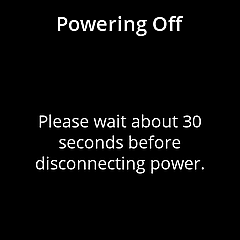
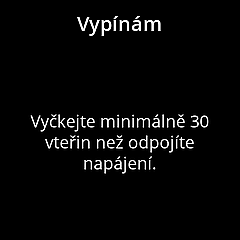
Fixed Donate screen; fr, es, jp, cs updates.

Changed region(s): [[0.1167, 0.4667, 0.875, 0.7292], [0.2333, 0.0583, 0.7583, 0.175]]

diff --git a/ja/README.md b/ja/README.md
@@ -1,5 +1,5 @@
 # SeedSigner Screenshots: Japanese
-Translation progress: 97.5%
+Translation progress: 100.0%
 
 ---
 

diff --git a/es/README.md b/es/README.md
@@ -1,5 +1,5 @@
 # SeedSigner Screenshots: Spanish
-Translation progress: 98.3%
+Translation progress: 100.0%
 
 ---
 

diff --git a/fr/README.md b/fr/README.md
@@ -1,5 +1,5 @@
 # SeedSigner Screenshots: French
-Translation progress: 98.3%
+Translation progress: 100.0%
 
 ---
 

diff --git a/cs/README.md b/cs/README.md
@@ -1,5 +1,5 @@
 # SeedSigner Screenshots: Czech
-Translation progress: 2.1%
+Translation progress: 100.0%
 
 ---
 
